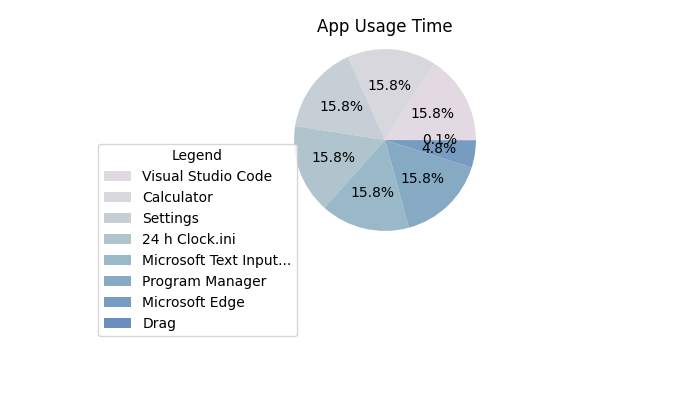
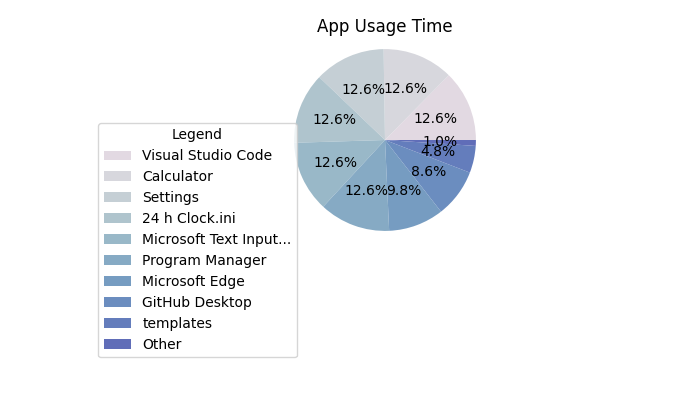
Basic Dashboard Functionality
Completed the basic dashboard addition, involving the daily apps picture graph and the tasks display. Next recommended action is to work on margin placements and determine how to improve the stylizing of the website.

diff --git a/templates/Dashboard.html b/templates/Dashboard.html
@@ -7,7 +7,14 @@
         <style>
             .column{
                 float: left;
-                width: 50%
+            }
+
+            .right{
+                width:35%;
+            }
+
+            .left{
+                width:65%;
             }
 
             .row: :after{
@@ -100,8 +107,15 @@
 
 <body>
     <h1>Dashboard</h1>
-    {% block DailyTasks %}
+    {% block DailyTime %}
     <div class="column left">
+        <h2>Daily Time</h2>
+        <img alt="Unable to load graph, please try again in a few seconds!" src={{url_for('static', filename='DailyTime.png')}}>
+        </div>
+    {% endblock DailyTime %}
+    
+    {% block DailyTasks %}
+    <div class="column right">
         <h2>Daily Tasks</h2>
         <br>
         {% if DataStoreTasks != {} %}
@@ -112,18 +126,8 @@
                     <span class="tooltiptext">{{ DataStoreTasks[task] }}</span>
                 </div>
             {% endfor %}
-        </li>
         {% endif %}
-    {% endblock %}
+            </div>
+    {% endblock DailyTasks %}
     
-    {% block DailyTime %}
-    <div class="column right">
-        <h2>Daily Time</h2>
-        {% comment %} 
-        Create a way to find the current times of the country that the user is in
-        Create a function to add to AppReader code that creates a graph from the data of only a single day
-        The data for the graph should be stored in a seperate json file from the rest of initial
-        The data for the graph should reset at 12am every day as determined by the user's time zone
-        {% endcomment %}
-    {% endblock %}
 </body>

diff --git a/AppReader_Remake_Testing.py b/AppReader_Remake_Testing.py
@@ -14,6 +14,7 @@ truepath = os.path.dirname(os.path.abspath(__file__))
 path = truepath  + "\\static\\AppReaderData.json"
 columngraphpath = truepath + "\\static\\Column.png"
 piechartpath = truepath + "\\static\\Pie.png"
+dailytimepath = truepath + "\\static\\DailyTime.png"
 timedisplay = "Seconds"
 day = (str(datetime.today()).split("-"))[1]
 with open (f"{truepath}//day.json", "w") as f:
@@ -40,6 +41,7 @@ class AppReader():
         self.appslist = {}
         self.endingtime = 0
         self.dailytime = {}
+        self.dailytimelist = {}
 
     def AppNameEdit(self):
         modified_apps = []
@@ -136,6 +138,11 @@ class AppReader():
         self.apptime = dict(sorted(self.apptime.items(), key=lambda x: x[1]['elapsed'], reverse=True))
         for app_name, time in self.apptime.items():
             self.appslist[app_name] = (f"{time['elapsed']} seconds")
+        
+        self.dailytime = dict(sorted(self.dailytime.items(), key=lambda x: x[1]['elapsed'], reverse=True))
+        for app_name, time in self.apptime.items():
+            self.dailytimelist[app_name] = (f"{time['elapsed']} seconds")
+            
                        
 def update_graph(timedisplay):
     fig1, ax1 = plt.subplots(figsize=(7,4))
@@ -249,6 +256,70 @@ def piechart():
         time.sleep(2)
         pass
 
+def dailytimechart(timedisplay):
+    fig3, ax3 = plt.subplots(figsize=(7,4))
+    try:
+        ax3.clear()
+        smalllists = AppReader.dailytimelist
+        if len(smalllists) > 25:
+            smalllists = dict(list(smalllists.items())[:25])
+        app_names = list(smalllists.keys())
+        for i in (smalllists.values()):
+            values = i.split(" ")
+            value = values[0]
+            maximum = max([int(round(float(value.split(" ")[0]), 0)) for value in smalllists.values()])
+            if maximum > 60 and maximum < 3600:
+                timedisplay = "Minutes"
+                break
+            elif maximum > 3600:
+                timedisplay = "Hours"
+                break
+            else:
+                pass
+            
+        if timedisplay == "Seconds":
+            times = [int(round(float(time.split(" ")[0]), 0)) for time in smalllists.values()]
+        elif timedisplay == "Minutes":
+            times = [(int(round(float(time.split(' ')[0]), 0)))/60 for time in smalllists.values()]
+        elif timedisplay == "Hours":
+            times = [(int(round(float(time.split(" ")[0]), 0)))/3600 for time in smalllists.values()]
+        elif timedisplay == "Days":
+            times = [(int(round(float(time.split(" ")[0]), 0)))/86400 for time in smalllists.values()]
+        else:
+            print("Error: Invalid time display. Defaulting to hours.")
+            times = [(int(round(float(time.split(" ")[0]), 0)))/3600 for time in smalllists.values()]
+            timedisplay = "Hours"
+                
+        color_indices = np.arange(len(app_names))
+        cmap = plt.colormaps.get_cmap("twilight")
+        colors = [cmap(index*15) for index in color_indices]
+        appernames = []
+        appernames.extend(app_names)
+        for i in range(len(app_names)):
+            for i in range(len(app_names)):
+                if len(app_names[i]) > 23:
+                    theappnames = app_names[i][:20] + "..."
+                    appernames[i] = theappnames
+
+        ax3.bar(appernames, times, color=colors, edgecolor="black")
+        ax3.set_xlabel('App Name')
+        ax3.set_ylabel(f'Time ({timedisplay})')
+        ax3.set_title('App Usage Time')
+        plt.grid(True, which="both", linestyle="--", linewidth=0.5, color="gray", axis="y")
+        plt.xticks(rotation = 45, ha="right")
+        plt.subplots_adjust(left=0.2,bottom=0.4, top = 0.9, right = 0.9)
+        plt.savefig(dailytimepath)
+        plt.close(fig3)
+    except Exception as e:
+        print("GRAPH ERROR:")
+        print(e)
+        print(traceback.format_exc())
+        time.sleep(2)
+        pass
+
+    return timedisplay
+
+        
 def scan():
     while True:
         AppReader.AppRunning(AppReader)
@@ -322,6 +393,7 @@ time.sleep(5)
 while True:
     update_graph(timedisplay)
     piechart()
+    dailytimechart(timedisplay)
     UpdateJson(AppReader.apptime, path)
     time.sleep(0.5)
     ending_time = int(round(time.time(), 0))
